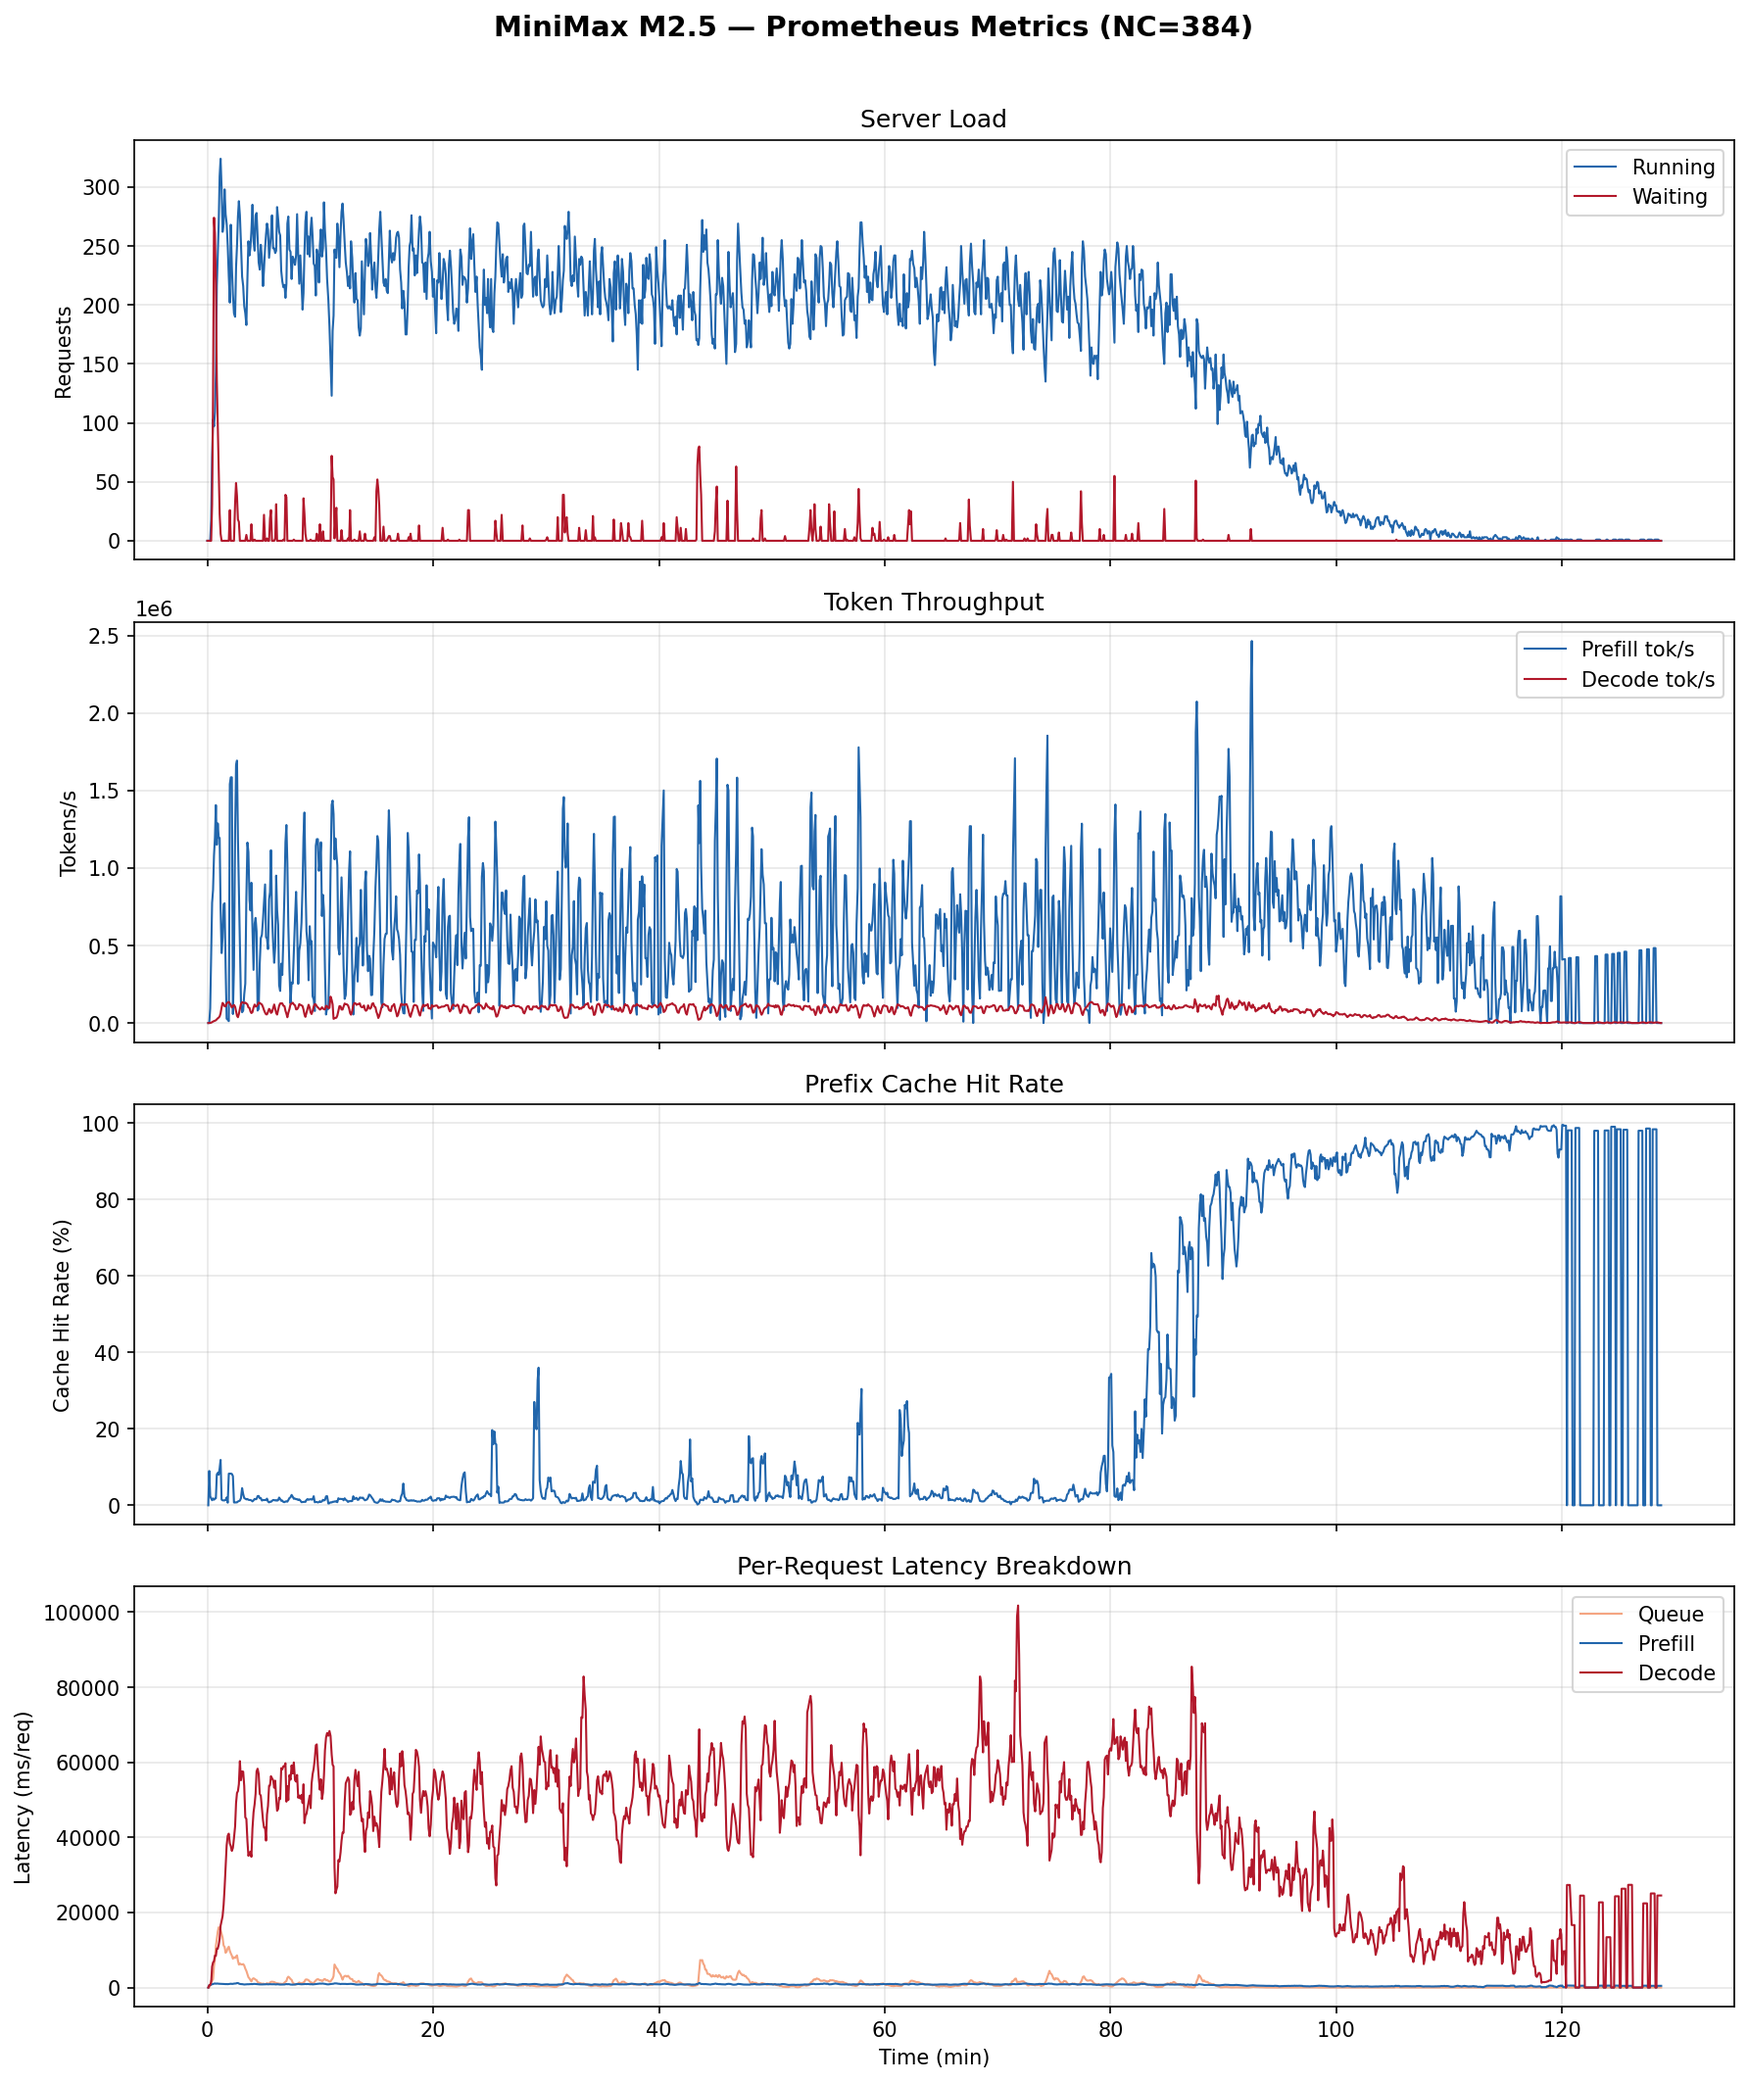
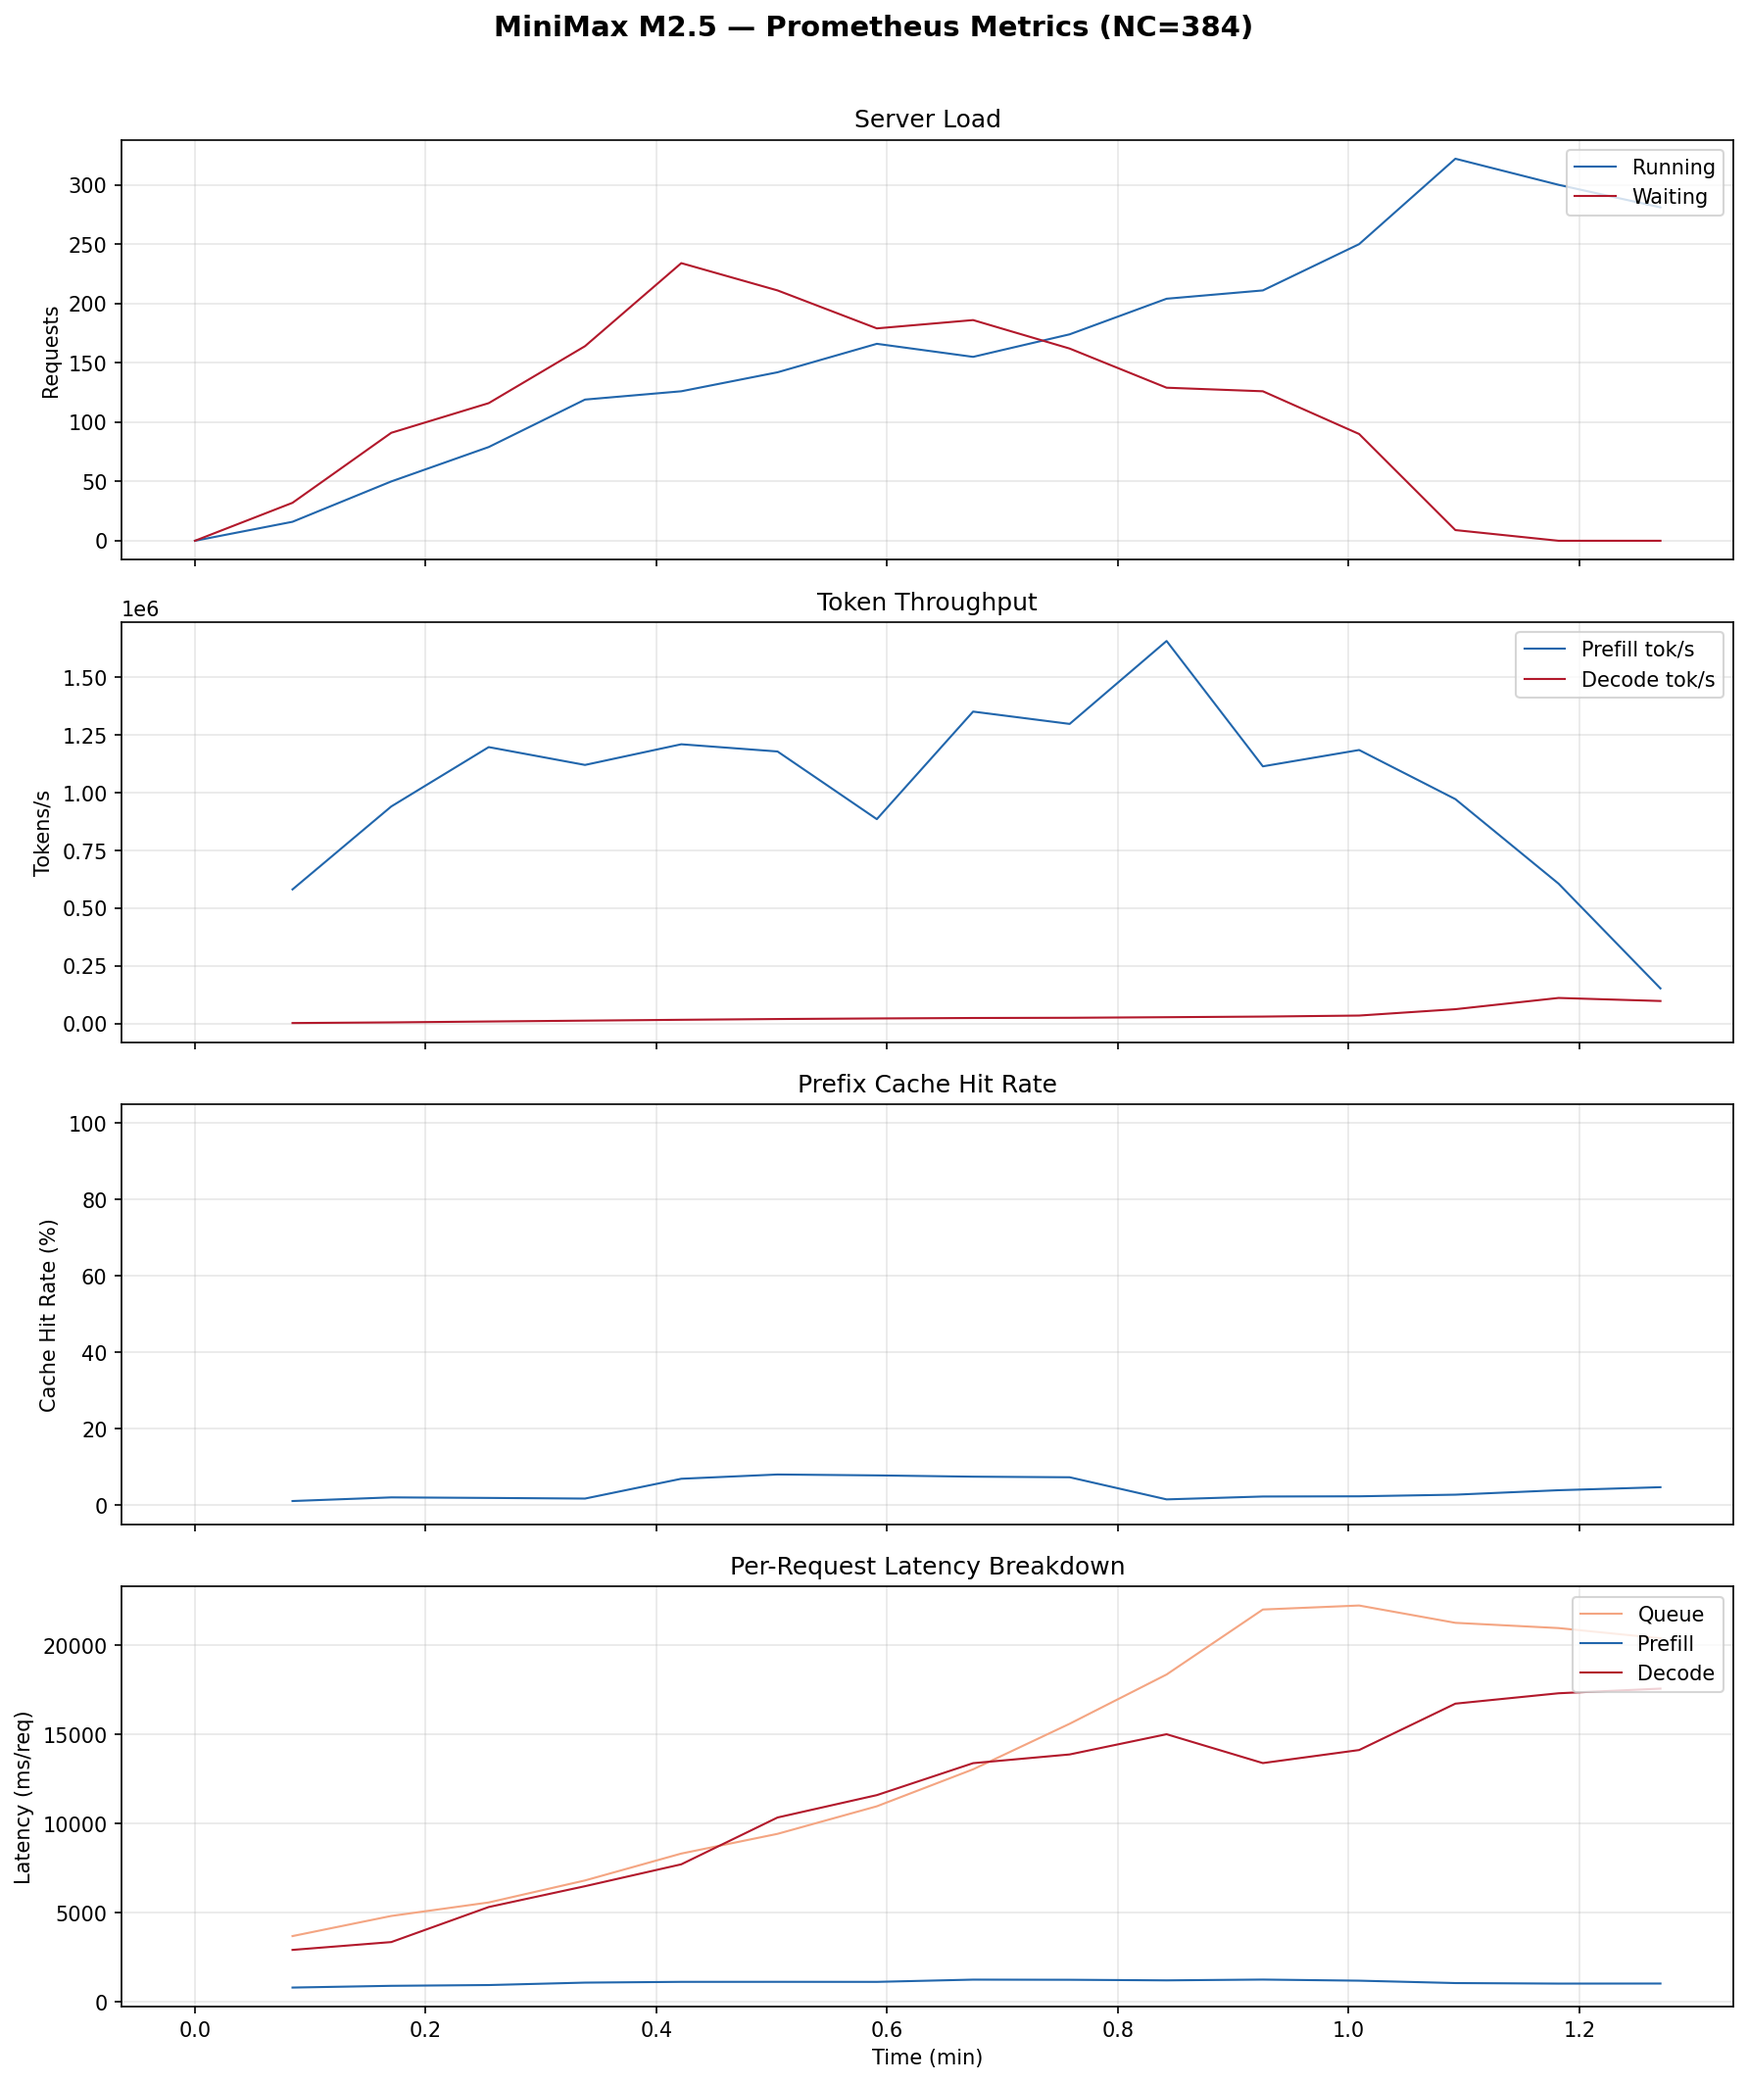
Improve benchmark reliability and balance
- Balance session dispatch by total turns instead of total chars,
  ensuring equal request count per client for consistent early stop
- Skip failed sessions instead of killing the entire client,
  preventing transient errors from aborting the benchmark
- Stop prometheus collector on early stop to avoid tail data pollution
- Latency breakdown panel uses seconds unit
- Default max-retries stays at 0 (skip on failure, don't retry)

diff --git a/multiturn_benchmark/bench_serving_multiturn.py b/multiturn_benchmark/bench_serving_multiturn.py
@@ -211,11 +211,15 @@ class DebugStats:
 class PrometheusCollector:
     """Periodically scrapes /metrics from the server in a background thread."""
 
-    def __init__(self, url: str, interval_sec: float = 5.0) -> None:
+    def __init__(
+        self, url: str, interval_sec: float = 5.0,
+        external_stop=None,
+    ) -> None:
         self.metrics_url = f"{url}/metrics"
         self.interval_sec = interval_sec
         self.snapshots: list[dict] = []
         self._stop_event = threading.Event()
+        self._external_stop = external_stop
         self._thread: threading.Thread | None = None
 
     def start(self) -> None:
@@ -234,6 +238,9 @@ class PrometheusCollector:
 
     def _scrape_loop(self) -> None:
         while not self._stop_event.is_set():
+            # Stop scraping when benchmark early-stops
+            if self._external_stop is not None and self._external_stop.is_set():
+                break
             try:
                 self._scrape_once()
             except Exception as e:
@@ -778,10 +785,12 @@ async def client_main(
 
             if not success:
                 num_failures += 1
-                # Remove the session (should not be used again)
+                # Remove the failed session and continue with the next one
                 active_sessions.pop(session_id)
-                if exception:
-                    break  # Exit gracefully instead of raising an error
+                logger.warning(
+                    f"{Color.YELLOW}Client {client_id} - Skipping session "
+                    f"{session_id} after {args.max_retries + 1} attempts{Color.RESET}"
+                )
 
             else:
                 num_successes += 1
@@ -929,17 +938,21 @@ async def main_mp(
     bench_args: BenchmarkArgs,
     tokenizer: AutoTokenizer,
     input_sessions: SessionsMap,
+    stop_event=None,
 ) -> tuple[SessionsMap, list[RequestStats]]:
     # An event that will trigger graceful termination of all the clients
-    stop_event = mp.Event()
+    if stop_event is None:
+        stop_event = mp.Event()
 
     num_clients = bench_args.num_clients
 
     # Balanced session dispatch: sort by total chars (proxy for tokens),
     # round-robin assign to clients, shuffle within each client
     session_items = list(input_sessions.items())
+    # Sort by total turns (= total requests). Each turn incurs a fixed
+    # sleep overhead, so total turns determines wall time per client.
     session_items.sort(
-        key=lambda x: sum(len(m["content"]) for m in x[1]), reverse=True
+        key=lambda x: len(x[1]) // 2, reverse=True
     )
 
     client_assignments: list[list[tuple[str, MessagesList]]] = [
@@ -1621,16 +1634,22 @@ async def main() -> None:
         )
         logger.info("%sWarmup done%s", Color.PURPLE, Color.RESET)
 
+    # Shared stop event — used by early stop and prometheus collector
+    bench_stop_event = mp.Event()
+
     # Start prometheus collection
     prom_collector: PrometheusCollector | None = None
     if args.prometheus_interval > 0:
-        prom_collector = PrometheusCollector(args.url, args.prometheus_interval)
+        prom_collector = PrometheusCollector(
+            args.url, args.prometheus_interval, external_stop=bench_stop_event
+        )
         prom_collector.start()
 
     # Run the benchmark
     benchmark_start_ns = time.perf_counter_ns()
     client_sessions, client_metrics = await main_mp(
-        client_args, req_args, bench_args, tokenizer, sessions
+        client_args, req_args, bench_args, tokenizer, sessions,
+        stop_event=bench_stop_event,
     )
     benchmark_runtime_sec = nanosec_to_sec(time.perf_counter_ns() - benchmark_start_ns)
 

diff --git a/visualization/plot_prometheus_timeseries.py b/visualization/plot_prometheus_timeseries.py
@@ -198,12 +198,12 @@ def main():
         prom, "request_decode_time_seconds_sum", "request_decode_time_seconds_count"
     )
     if len(ts_q):
-        ax.plot(ts_q, queue_ms, color="#f4a582", linewidth=1, label="Queue")
+        ax.plot(ts_q, queue_ms / 1000, color="#f4a582", linewidth=1, label="Queue")
     if len(ts_pf):
-        ax.plot(ts_pf, prefill_ms, color="#2166ac", linewidth=1, label="Prefill")
+        ax.plot(ts_pf, prefill_ms / 1000, color="#2166ac", linewidth=1, label="Prefill")
     if len(ts_d):
-        ax.plot(ts_d, decode_ms, color="#b2182b", linewidth=1, label="Decode")
-    ax.set_ylabel("Latency (ms/req)")
+        ax.plot(ts_d, decode_ms / 1000, color="#b2182b", linewidth=1, label="Decode")
+    ax.set_ylabel("Latency (s/req)")
     ax.set_xlabel("Time (min)")
     ax.set_title("Per-Request Latency Breakdown")
     ax.legend(loc="upper right")
